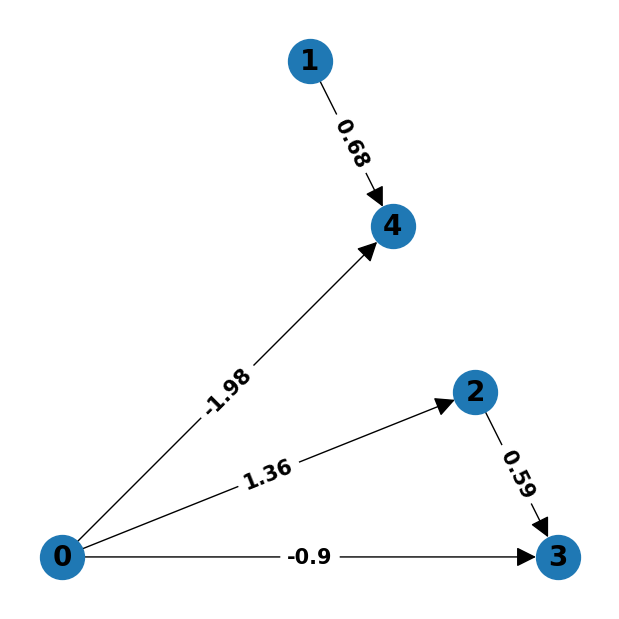
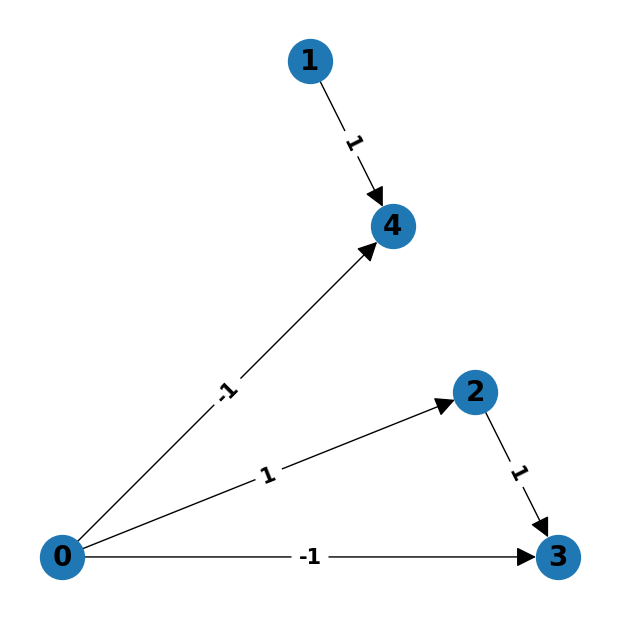
update dag example

diff --git a/notears/example.py b/notears/example.py
@@ -33,14 +33,18 @@ B = _random_permutation(B)
 ig.Graph.Adjacency(B.tolist()).is_dag() # check DAGness
 #%%
 '''weighted adj matrix of DAG'''
-w_ranges=((-2.0, -0.5), (0.5, 2.0))
+# w_ranges=((-2.0, -0.5), (0.5, 2.0))
+w_ranges=(-1, 1)
 
 W = np.zeros(B.shape)
 S = np.random.randint(len(w_ranges), size=B.shape)  # which range
-for i, (low, high) in enumerate(w_ranges):
-    U = np.random.uniform(low=low, high=high, size=B.shape)
+# for i, (low, high) in enumerate(w_ranges):
+for i, val in enumerate(w_ranges):
+    # U = np.random.uniform(low=low, high=high, size=B.shape)
+    U = np.ones(B.shape) * val
     W += B * (S == i) * U
-W = np.round(W, 2)
+# W = np.round(W, 2)
+W = W.astype(int)
 np.savetxt('./assets/W_example.csv', W, delimiter=',')
 #%%
 '''visualize weighted adj matrix of DAG'''
@@ -70,7 +74,8 @@ plt.close()
 #%%
 '''heatmap'''
 fig = plt.figure(figsize=(5, 4))
-plt.pcolor(W, cmap='coolwarm')
+plt.pcolor(W, cmap='coolwarm', edgecolor='black')
+plt.gca().invert_yaxis()
 plt.colorbar()
 plt.savefig(
     "./assets/DAG_example_heatmap.png",
